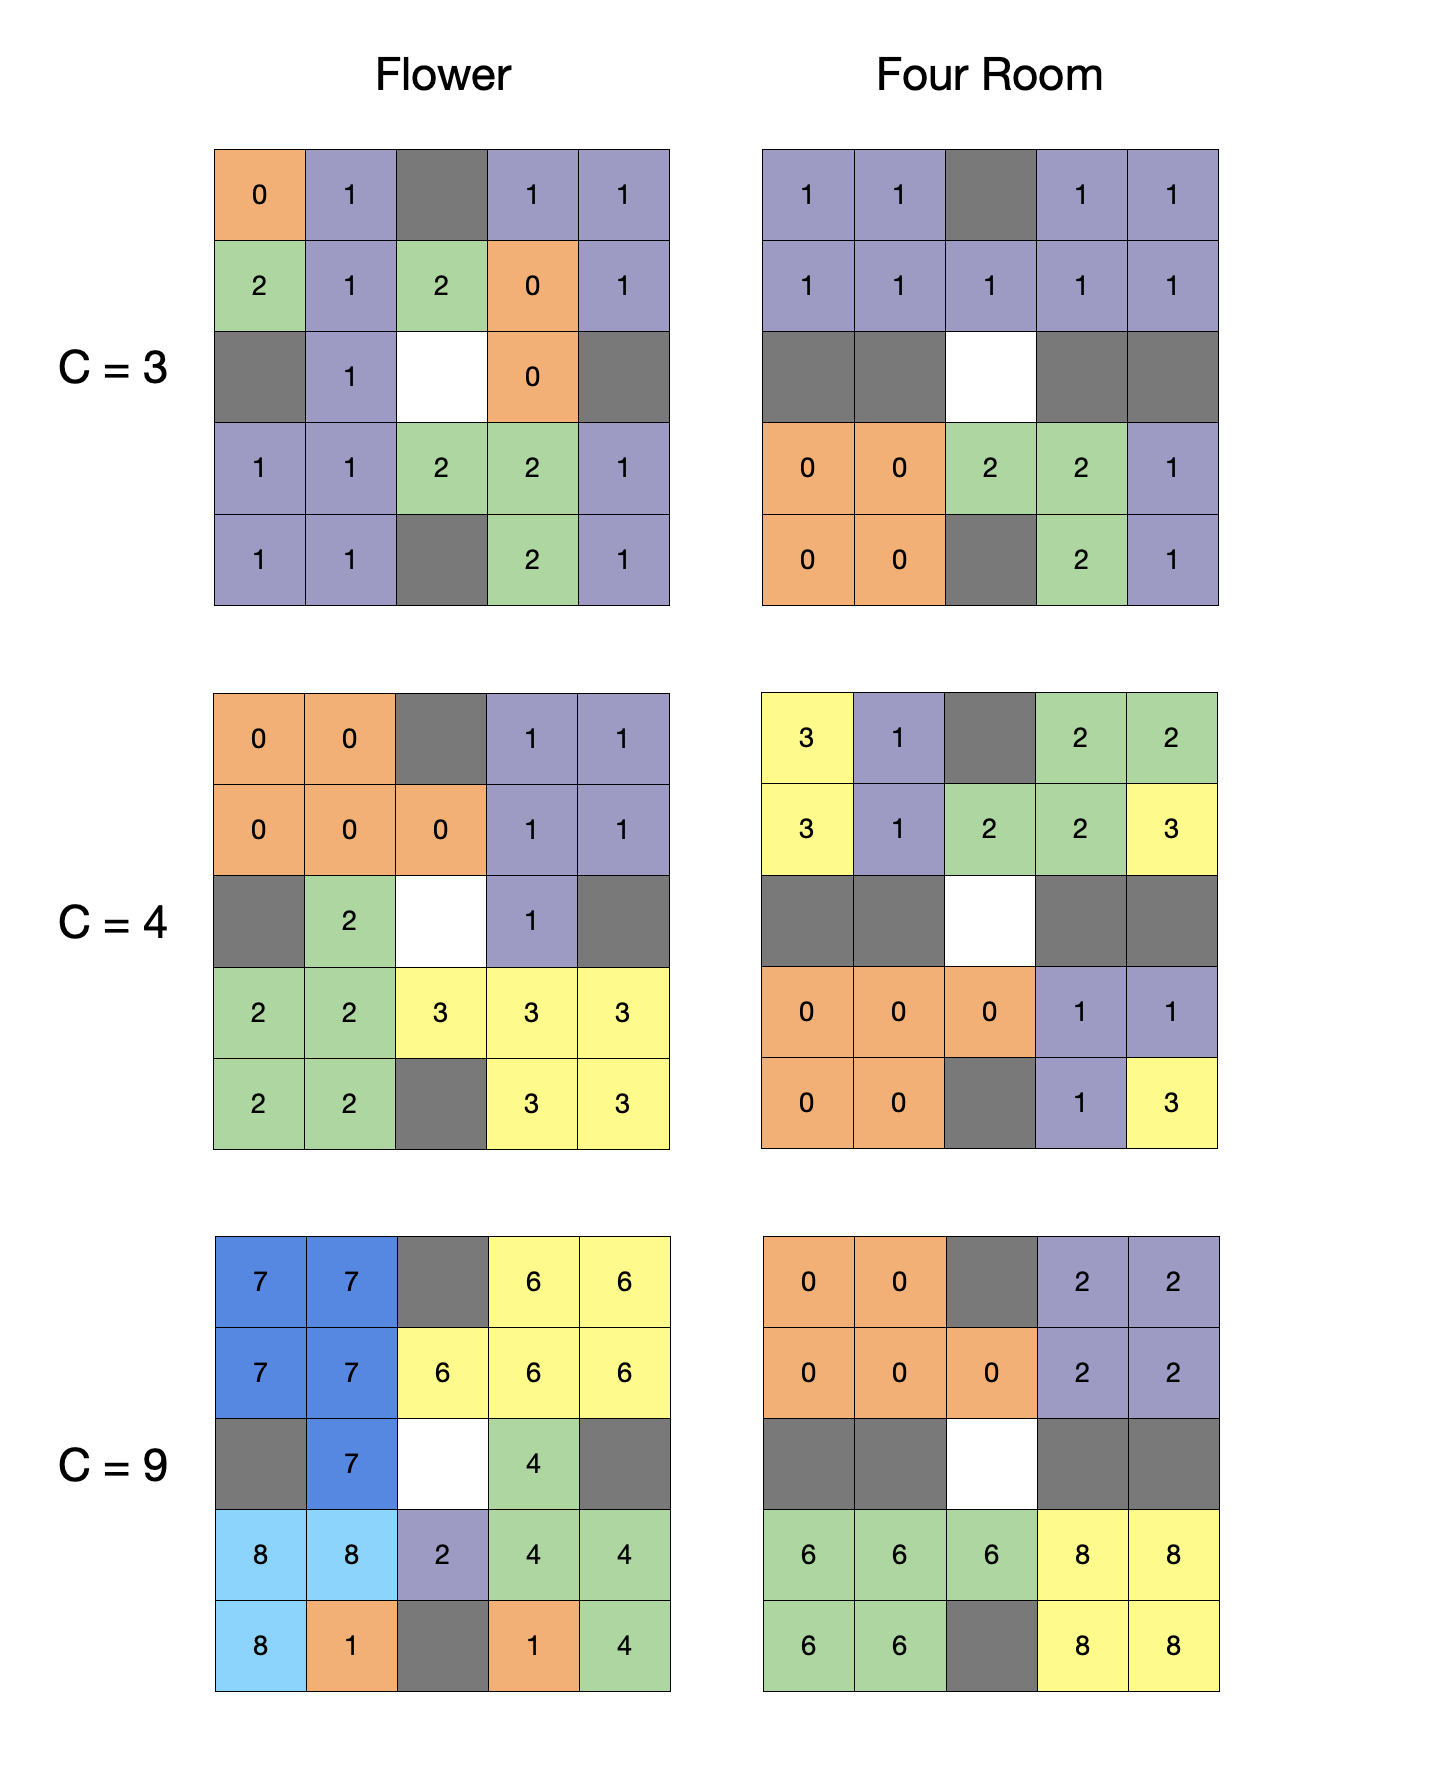
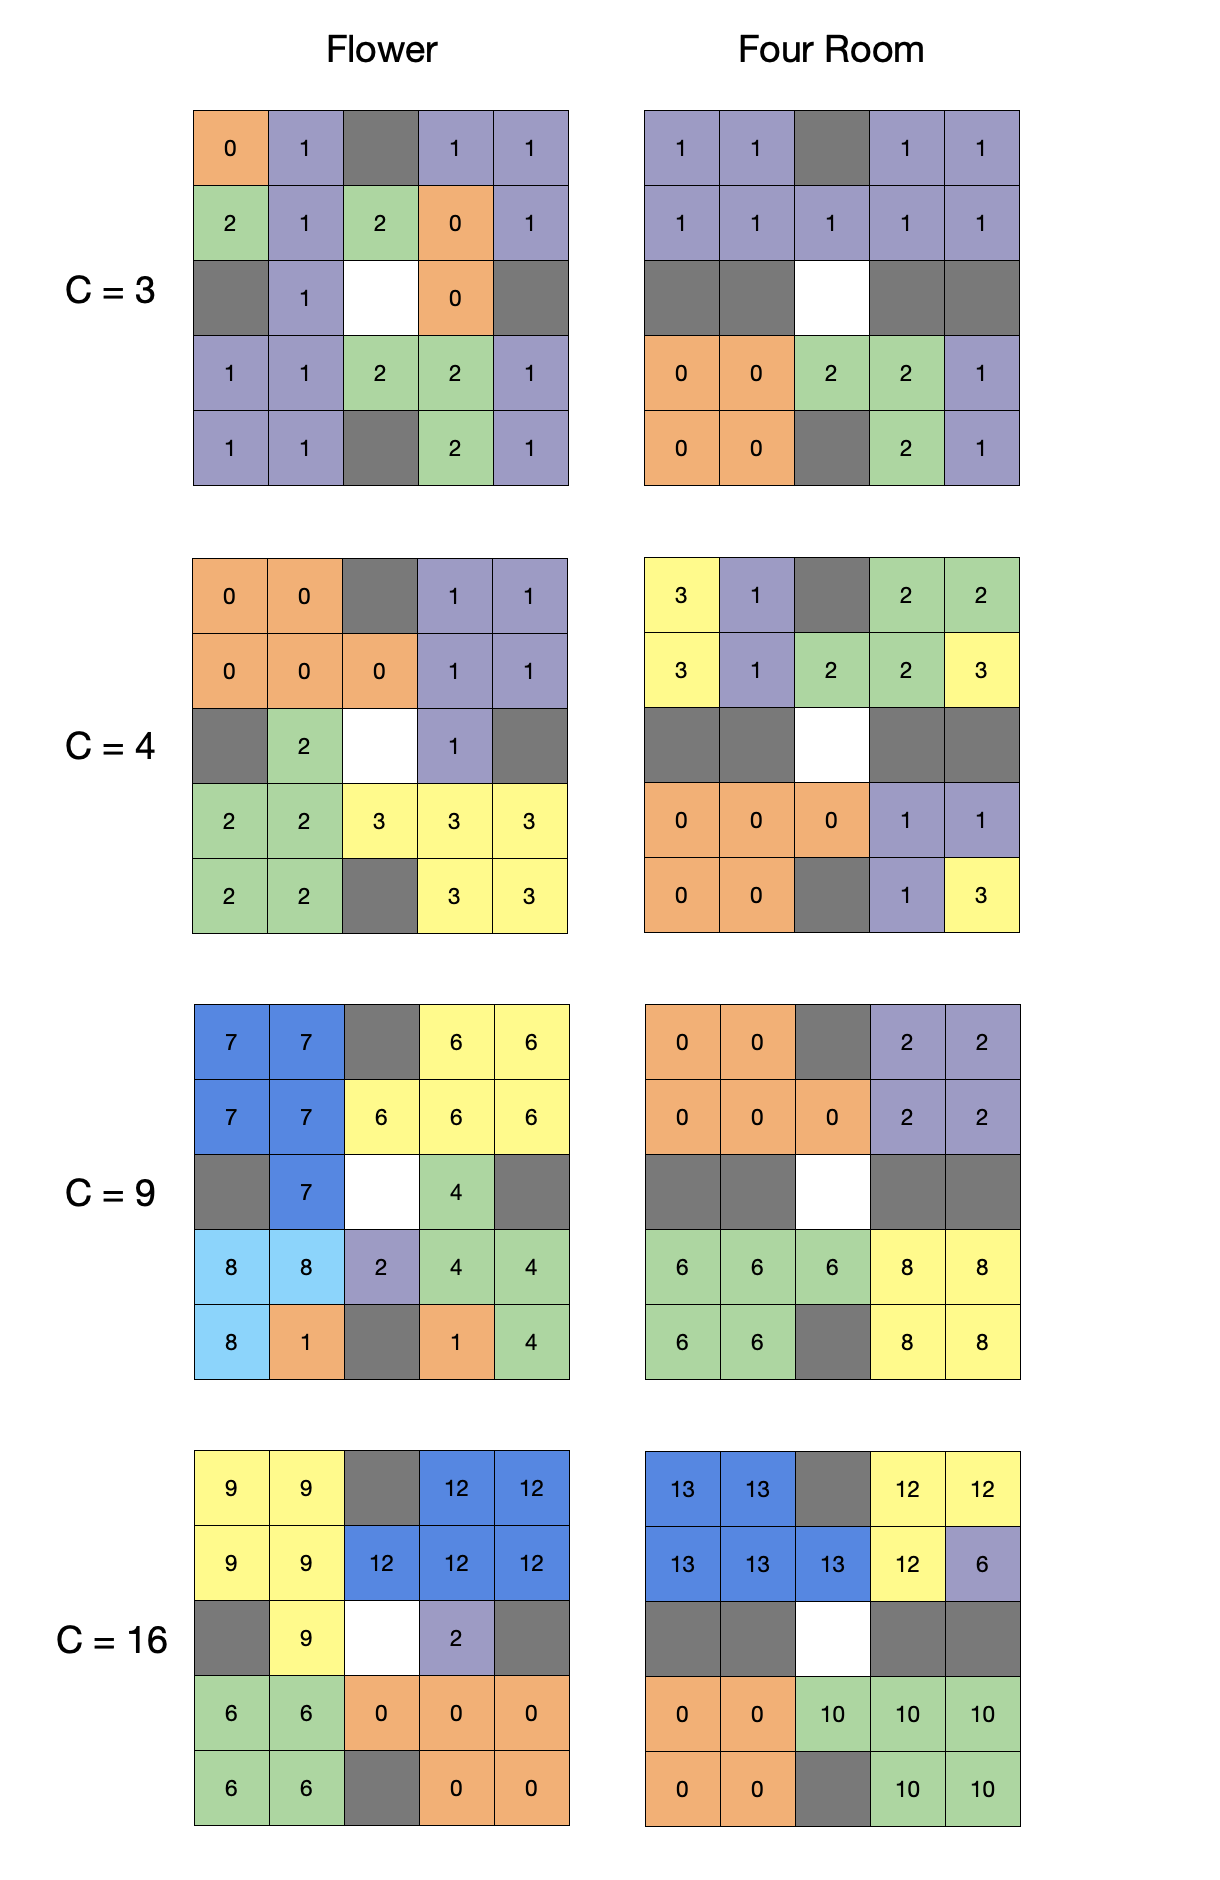
Plot senders_pred for c 16

diff --git a/plotter.py b/plotter.py
@@ -181,12 +181,14 @@ if __name__ == '__main__':
         models_paths={
             "Flower": ["./experiments/experiment_2_layout_1/models/senders/s_c_3_0",
                        "./experiments/experiment_2_layout_1/models/senders/s_c_4_0",
-                       "./experiments/experiment_2_layout_1/models/senders/s_c_9_0"],
+                       "./experiments/experiment_2_layout_1/models/senders/s_c_9_0",
+                       "./experiments/experiment_2_layout_1/models/senders/s_c_16_0"],
             "Four room": ["./experiments/experiment_2_layout_3/models/senders/s_c_3_0",
                           "./experiments/experiment_2_layout_3/models/senders/s_c_4_0",
-                          "./experiments/experiment_2_layout_3/models/senders/s_c_9_0"]
+                          "./experiments/experiment_2_layout_3/models/senders/s_c_9_0",
+                          "./experiments/experiment_2_layout_3/models/senders/s_c_16_0"]
         },
         layouts=[1, 3],
-        capacities=[3, 4, 9],
+        capacities=[3, 4, 9, 16],
         output_filepath="./results/results_exp_2.csv"
     )
